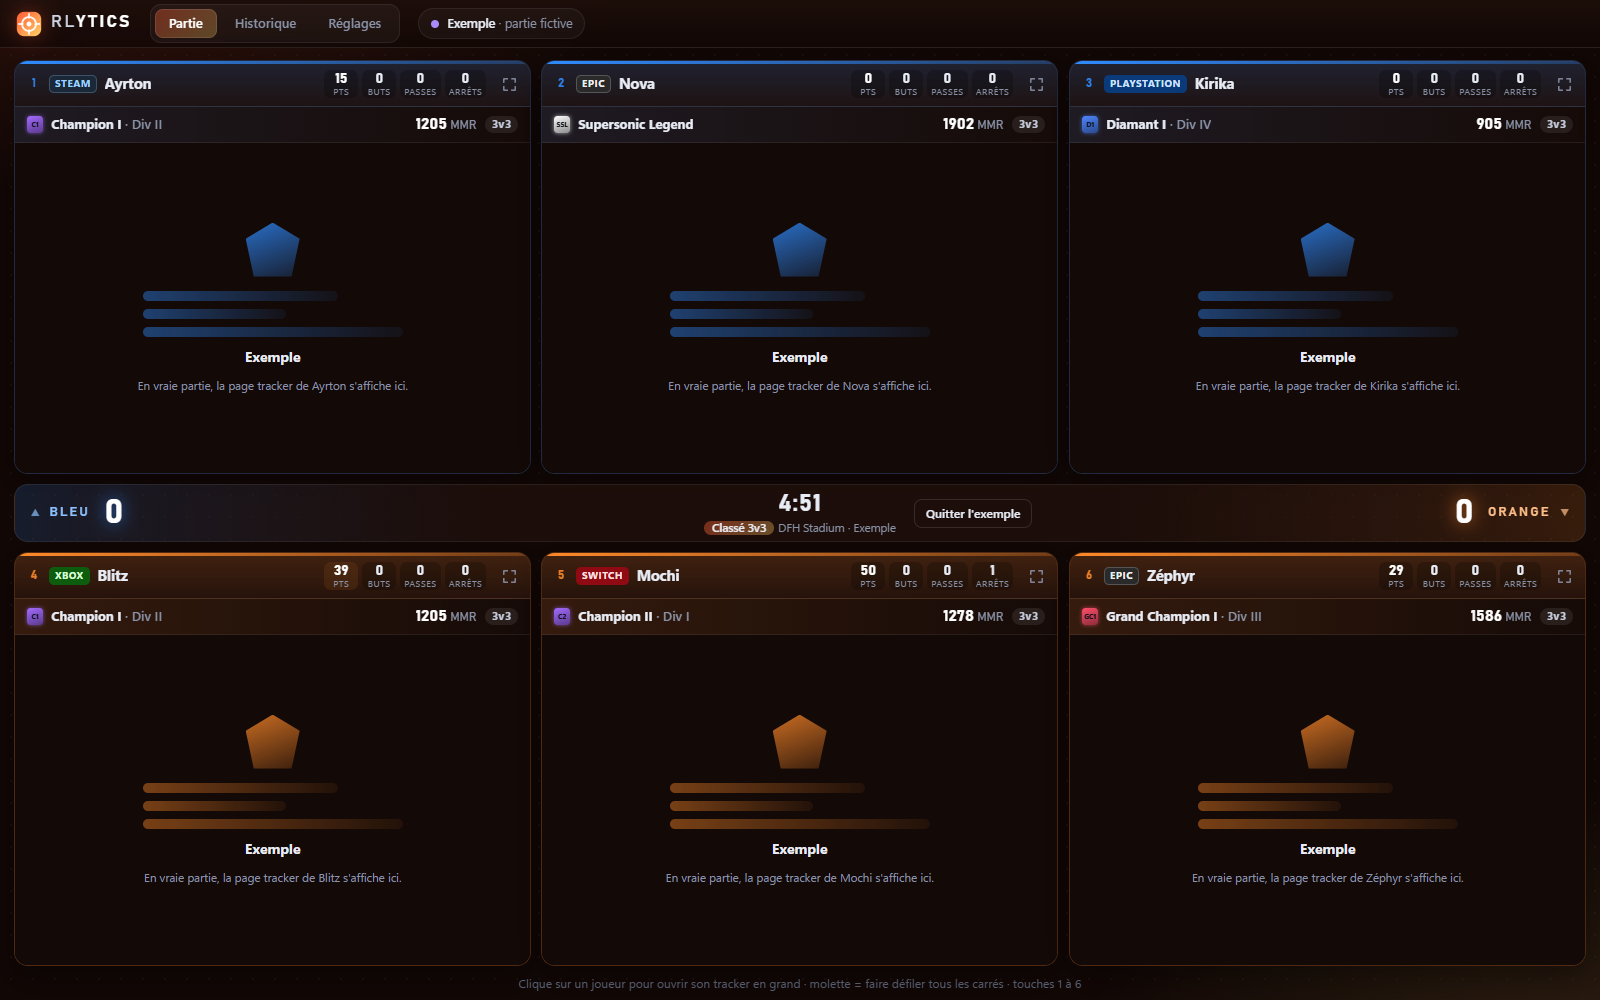
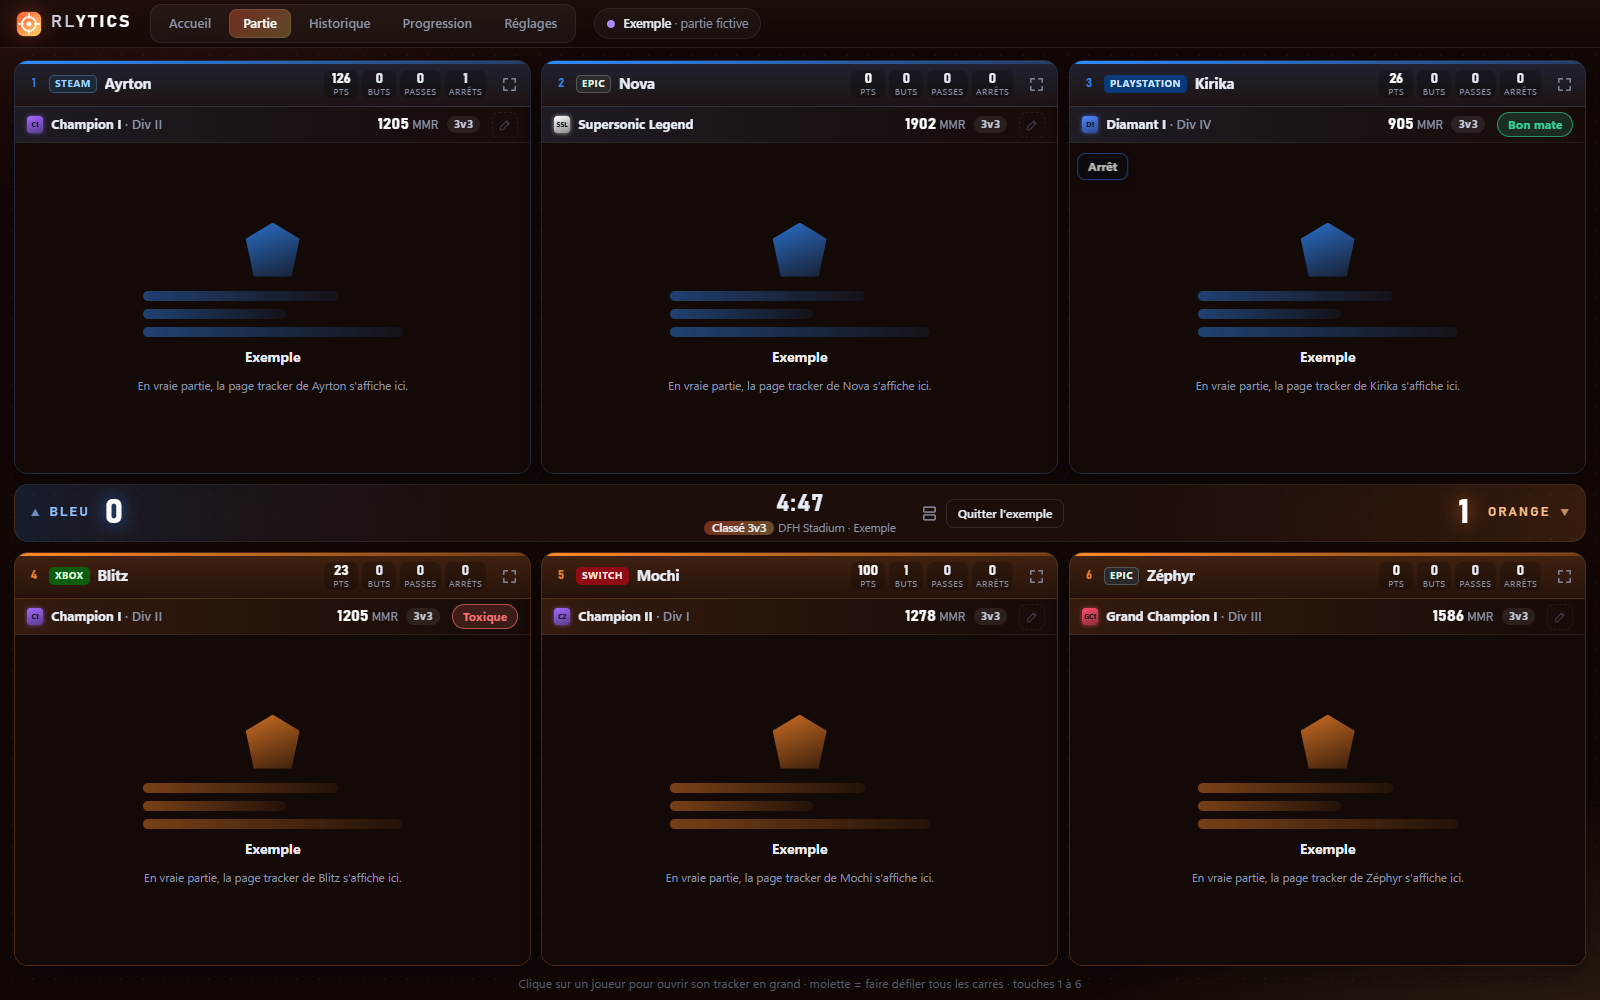
Site 1.9.0 : version anglaise, Progression, notes sur les joueurs, anti-tilt, nouvelles captures

diff --git a/docs/en/index.html b/docs/en/index.html
@@ -1,0 +1,218 @@
+<!DOCTYPE html>
+<html lang="en">
+<head>
+  <meta charset="utf-8">
+  <meta name="viewport" content="width=device-width, initial-scale=1">
+  <title>RLytics — every rank in your Rocket League lobby</title>
+  <meta name="description" content="RLytics shows the tracker of every player in your Rocket League match and puts their ranks, divisions and MMR right on your scoreboard. Free, for Windows, compatible with Easy Anti-Cheat.">
+  <meta property="og:title" content="RLytics — every rank in your Rocket League lobby">
+  <meta property="og:description" content="The tracker of every player in your match, and their ranks right on your scoreboard.">
+  <meta property="og:image" content="../img/en/partie.png">
+  <link rel="icon" href="../img/icon.png">
+  <link rel="alternate" hreflang="fr" href="https://ayusecour-stack.github.io/rlytics/">
+  <link rel="alternate" hreflang="en" href="https://ayusecour-stack.github.io/rlytics/en/">
+  <link rel="stylesheet" href="../style.css">
+</head>
+<body>
+  <div class="glow" aria-hidden="true"></div>
+
+  <header class="nav">
+    <a class="brand" href="#">
+      <img src="../img/icon.png" alt="" width="30" height="30">
+      <span>RL<b>YTICS</b></span>
+    </a>
+    <nav>
+      <a href="#features">Features</a>
+      <a href="#tab">Ranks in Tab</a>
+      <a href="#steps">How it works</a>
+      <a href="#faq">FAQ</a>
+      <a href="../" hreflang="fr" lang="fr">Français</a>
+    </nav>
+    <a class="btn small" href="https://github.com/ayusecour-stack/rlytics/releases/latest/download/RLytics-Setup.exe">Download</a>
+  </header>
+
+  <main>
+    <!-- ===== Hero ===== -->
+    <section class="hero">
+      <div class="hero-text">
+        <p class="kicker">For Rocket League on PC · Free</p>
+        <h1>Every rank in the lobby, <span class="grad">without leaving your match.</span></h1>
+        <p class="lead">RLytics shows the tracker of every player in your match and puts their <b>rank</b>, <b>division</b> and <b>MMR</b> right on your scoreboard when you hold Tab.</p>
+        <div class="cta">
+          <a class="btn big" id="dl" href="https://github.com/ayusecour-stack/rlytics/releases/latest/download/RLytics-Setup.exe">
+            <svg viewBox="0 0 24 24" aria-hidden="true"><path d="M12 3v12m0 0l-5-5m5 5l5-5M4 19h16"/></svg>
+            Download for Windows
+          </a>
+          <p class="meta" id="dl-meta">Windows 10 / 11 · automatic updates</p>
+          <p class="meta smartscreen">“Windows protected your PC” message? Click <b>More info</b>, then <b>Run anyway</b>. It only shows up on the first install.</p>
+        </div>
+        <ul class="ticks">
+          <li>Compatible with Easy Anti-Cheat: nothing is injected into the game</li>
+          <li>Steam and Epic, keyboard and controller</li>
+          <li>Your MMR curve, notes on players and anti-tilt</li>
+          <li>Color themes and anime themes</li>
+          <li>Players you met before, FPS counter and music playing in game</li>
+          <li>In English and French</li>
+        </ul>
+      </div>
+      <figure class="hero-shot">
+        <img src="../img/en/partie.png" alt="The RLytics window during a 3v3 match: one square per player with their rank, division and MMR">
+      </figure>
+    </section>
+
+    <!-- ===== Features ===== -->
+    <section id="features" class="section">
+      <h2>Everything you need to know who you’re playing against</h2>
+      <div class="grid">
+        <article class="feat">
+          <div class="ico">▦</div>
+          <h3>Every player’s tracker</h3>
+          <p>As soon as the match starts, RLytics opens the tracker page of every player: 2, 4 or 6 squares depending on the mode. Click a player to see them in full, or open them in your browser. You can also see one team at a time in full screen (the 3 Blues, then the 3 Oranges).</p>
+        </article>
+        <article class="feat">
+          <div class="ico">◆</div>
+          <h3>Ranks in the Tab overlay</h3>
+          <p>Hold Tab (or your controller button): the rank logo, division and MMR show up next to each player, for the mode you’re playing. Press F9 to see their 1v1, 2v2 or 3v3 ranks.</p>
+        </article>
+        <article class="feat">
+          <div class="ico">✓</div>
+          <h3>Compatible with Easy Anti-Cheat</h3>
+          <p>RLytics reads Rocket League’s <b>official Stats API</b>: the game itself gives the player list. Nothing is injected, the game’s memory is never read.</p>
+        </article>
+        <article class="feat">
+          <div class="ico">↻</div>
+          <h3>Match history</h3>
+          <p>Every match is saved: score, result and players, with a link to their tracker. Handy to find that amazing teammate again… or that smurf.</p>
+        </article>
+        <article class="feat">
+          <div class="ico">↗</div>
+          <h3>Your progress</h3>
+          <p>Your MMR curve match after match, in every ranked mode: your peak, your current streak, your day so far. Pick a goal (Grand Champion, for example) and track your progress division by division.</p>
+        </article>
+        <article class="feat">
+          <div class="ico">✎</div>
+          <h3>Notes on players</h3>
+          <p>Toxic, good teammate, smurf, troll… Put a note on a player: next time you meet them, it shows on their card and in your in-game Tab overlay.</p>
+        </article>
+        <article class="feat">
+          <div class="ico">♡</div>
+          <h3>Anti-tilt</h3>
+          <p>After several losses in a row, a short message suggests a break, on top of the game. A win resets the count. You can turn it off.</p>
+        </article>
+        <article class="feat">
+          <div class="ico">✦</div>
+          <h3>Themes</h3>
+          <p>7 color themes, and anime themes with their characters: My Dress Up Darling, Akame ga Kill, The Quintessential Quintuplets, The Future Diary, Bunny Girl Senpai, Haimiya-senpai, Kaoru Hana wa Rin to Saku, Re:Zero, Mushoku Tensei, Jujutsu Kaisen (Gojo and Sukuna), Chainsaw Man (Reze and Asa Mitaka), Uma Musume (Agnes Tachyon), Roshidere (Alya and Yuki), Akame ga Kill (Esdeath), Firefly Wedding (Satoko), Kill la Kill (Ryuko), Cyberpunk Edgerunners (Lucy and David), Oshi no Ko (Ruby, Kana, Ai and Akane), The Angel Next Door (Mahiru), Darling in the Franxx (Zero Two). The home page (clock, character, full screen) is perfect on a second screen.</p>
+        </article>
+        <article class="feat">
+          <div class="ico">⇣</div>
+          <h3>Automatic updates</h3>
+          <p>New versions download by themselves and install when you close RLytics. Nothing to do.</p>
+        </article>
+      </div>
+    </section>
+
+    <!-- ===== Ranks in Tab (illustration) ===== -->
+    <section id="tab" class="section split">
+      <div>
+        <h2>Your scoreboard, but better</h2>
+        <p>One badge per player that fits in its row: the rank logo and division on top, the MMR right below. SSL players have no division, bots get nothing.</p>
+        <p>Nothing to set up: the positions are already measured on the real scoreboard and adapt to 16:9, 21:9 and 16:10 screens. If they’re off on yours, one photo of your scoreboard is enough to fix them.</p>
+        <p>Want to see your opponents’ 1v1 or 3v3 rank during a 2v2 match? Press <b>F9</b>: the Tab ranks switch to the next mode (key can be changed in the settings).</p>
+        <p class="small">Illustration: made-up names and ranks.</p>
+      </div>
+      <div class="board" aria-label="Sample scoreboard with RLytics ranks">
+        <div class="team t0">
+          <div class="thead"><b>BLUE</b><span>SCORE</span><span>GOALS</span><span>SAVES</span></div>
+          <div class="row"><div class="badge t0"><i class="em" style="--c:#ff4f6b">GC1</i><span>DIV III</span><small><b>1586</b> MMR</small></div><div class="av"></div><b class="nm">Ayrton</b><span>412</span><span>2</span><span>1</span></div>
+          <div class="row"><div class="badge t0"><i class="em" style="--c:#ffffff">SSL</i><small><b>1902</b> MMR</small></div><div class="av"></div><b class="nm">Nova</b><span>356</span><span>1</span><span>3</span></div>
+          <div class="row"><div class="badge t0"><i class="em" style="--c:#a46bff">C2</i><span>DIV I</span><small><b>1278</b> MMR</small></div><div class="av"></div><b class="nm">Kirika</b><span>201</span><span>0</span><span>2</span></div>
+        </div>
+        <div class="team t1">
+          <div class="thead"><b>ORANGE</b><span>SCORE</span><span>GOALS</span><span>SAVES</span></div>
+          <div class="row"><div class="badge t1"><i class="em" style="--c:#ff4f6b">GC2</i><span>DIV IV</span><small><b>1712</b> MMR</small></div><div class="av"></div><b class="nm">Blitz</b><span>388</span><span>1</span><span>2</span></div>
+          <div class="row"><div class="badge t1"><i class="em" style="--c:#a46bff">C1</i><span>DIV II</span><small><b>1205</b> MMR</small></div><div class="av"></div><b class="nm">Mochi</b><span>244</span><span>1</span><span>0</span></div>
+          <div class="row"><div class="badge t1"><i class="em" style="--c:#4f86ff">D3</i><span>DIV II</span><small><b>1120</b> MMR</small></div><div class="av"></div><b class="nm">Zéphyr</b><span>130</span><span>0</span><span>1</span></div>
+        </div>
+      </div>
+    </section>
+
+    <!-- ===== Screenshots ===== -->
+    <section class="section">
+      <h2>What it looks like</h2>
+      <div class="shots">
+        <figure><img src="../img/en/progression.png" alt="The Progress page: MMR curve, peak, streak and rank goal" loading="lazy"><figcaption>Your progress (Neon theme)</figcaption></figure>
+        <figure><img src="../img/en/braise.png" alt="RLytics with the Ember theme during a match" loading="lazy"><figcaption>Ember theme</figcaption></figure>
+        <figure><img src="../img/en/reglages.png" alt="RLytics settings: ranks in the Tab overlay" loading="lazy"><figcaption>Tab rank settings</figcaption></figure>
+      </div>
+    </section>
+
+    <!-- ===== Steps ===== -->
+    <section id="steps" class="section">
+      <h2>How it works</h2>
+      <ol class="steps">
+        <li><b>Install RLytics.</b> Windows may show “Windows protected your PC”: the app doesn’t have a paid signature. Click “More info”, then “Run anyway”.</li>
+        <li><b>Start Rocket League in borderless windowed mode.</b> If the game’s Stats API isn’t enabled yet, RLytics offers to enable it in one click (restart the game once).</li>
+        <li><b>Play.</b> As soon as the match starts, every player’s tracker shows up. The first time, tracker.gg asks for your cookie choice: do it once, it’s remembered.</li>
+        <li><b>Hold Tab in a match.</b> Everyone’s ranks show up on your scoreboard, already well placed in 1v1, 2v2 and 3v3. If they’re off on yours (different interface size…), one photo of the scoreboard in the settings is enough to fix them.</li>
+      </ol>
+    </section>
+
+    <!-- ===== FAQ ===== -->
+    <section id="faq" class="section">
+      <h2>Frequently asked questions</h2>
+      <div class="faq">
+        <details>
+          <summary>Windows shows “Windows protected your PC”, is that normal?</summary>
+          <p>Yes. Windows shows this message for programs without a paid signature (a certificate costs several hundred euros per year). Click “More info”, then “Run anyway”. It only shows up on install: automatic updates don’t trigger it.</p>
+        </details>
+        <details>
+          <summary>Can I get banned?</summary>
+          <p>RLytics doesn’t touch the game: it injects nothing, doesn’t read its memory and doesn’t even open its process. It reads Rocket League’s official Stats API (made by Psyonix for overlays) and shows a window on top of the game, like Discord or OBS. There’s no official guarantee from Psyonix, but it works the same way as allowed overlays.</p>
+        </details>
+        <details>
+          <summary>Where do the ranks come from?</summary>
+          <p>From the public pages of rocketleague.tracker.network, which RLytics shows like a browser. The Tab ranks are read from these already open pages, with no extra requests. RLytics isn’t affiliated with Tracker Network: if their site changes, an RLytics update may be needed.</p>
+        </details>
+        <details>
+          <summary>Does it work on Steam and Epic? With a controller?</summary>
+          <p>Yes to both. For a controller, pick the button that opens your scoreboard in the settings. PlayStation, Xbox and Switch players in your match show up too.</p>
+        </details>
+        <details>
+          <summary>Does it slow down my game?</summary>
+          <p>Pages load once at the start of the match, then they’re paused (still image) while Rocket League is in front, and theme animations stop during matches. If your PC is tight, turn off “Load trackers automatically” in the settings.</p>
+        </details>
+        <details>
+          <summary>Do I need an account? Where does my data go?</summary>
+          <p>No account. Everything stays on your PC: settings, history, notes on players, your MMR curve, rank positions. RLytics only connects to tracker.gg (player pages), AniList (anime theme images) and GitHub (updates).</p>
+        </details>
+        <details>
+          <summary>Is RLytics available in French?</summary>
+          <p>Yes: Settings → Language. In “Auto”, RLytics follows your Windows language.</p>
+        </details>
+        <details>
+          <summary>How do I get new versions?</summary>
+          <p>Automatically: RLytics checks at startup, then every 3 hours, downloads the new version in the background and installs it when you close it (or right away with the “Restart” button).</p>
+        </details>
+        <details>
+          <summary>I found a bug, what do I do?</summary>
+          <p>In RLytics: Settings → About → “Open the log”. This file explains what happened (it stays on your PC, nothing is sent). Describe the problem on <a href="https://github.com/ayusecour-stack/rlytics/issues">the issues page</a> and attach the log if you want.</p>
+        </details>
+      </div>
+    </section>
+
+    <section class="section final">
+      <h2>Ready for your next match?</h2>
+      <a class="btn big" href="https://github.com/ayusecour-stack/rlytics/releases/latest/download/RLytics-Setup.exe">Download RLytics</a>
+      <p class="meta" id="dl-meta-2"></p>
+    </section>
+  </main>
+
+  <footer>
+    <p>RLytics isn’t affiliated with Psyonix, Epic Games or Tracker Network. Rocket League is a trademark of Psyonix. Anime theme images come from AniList and belong to their owners; they aren’t included in RLytics.</p>
+    <p><a href="https://github.com/ayusecour-stack/rlytics/releases">All versions</a></p>
+  </footer>
+
+  <script src="../app.js"></script>
+</body>
+</html>

diff --git a/docs/index.html b/docs/index.html
@@ -9,6 +9,8 @@
   <meta property="og:description" content="Le tracker de chaque joueur de ta partie, et leurs rangs directement dans ton tableau des scores.">
   <meta property="og:image" content="img/partie.png">
   <link rel="icon" href="img/icon.png">
+  <link rel="alternate" hreflang="fr" href="https://ayusecour-stack.github.io/rlytics/">
+  <link rel="alternate" hreflang="en" href="https://ayusecour-stack.github.io/rlytics/en/">
   <link rel="stylesheet" href="style.css">
 </head>
 <body>
@@ -24,6 +26,7 @@
       <a href="#tab">Rangs dans le Tab</a>
       <a href="#etapes">Comment ça marche</a>
       <a href="#faq">FAQ</a>
+      <a href="en/" hreflang="en" lang="en">English</a>
     </nav>
     <a class="btn small" href="https://github.com/ayusecour-stack/rlytics/releases/latest/download/RLytics-Setup.exe">Télécharger</a>
   </header>
@@ -46,8 +49,10 @@
         <ul class="ticks">
           <li>Compatible Easy Anti-Cheat : rien n'est injecté dans le jeu</li>
           <li>Steam et Epic, clavier et manette</li>
+          <li>Courbe de ton MMR, notes sur les joueurs et anti-tilt</li>
           <li>Thèmes de couleurs et thèmes anime</li>
           <li>Joueurs déjà croisés, compteur FPS et musique en cours en jeu</li>
+          <li>En français et en anglais</li>
         </ul>
       </div>
       <figure class="hero-shot">
@@ -78,6 +83,21 @@
           <div class="ico">↻</div>
           <h3>Historique des parties</h3>
           <p>Chaque partie est enregistrée : score, résultat et joueurs, avec un lien vers leur tracker. Pratique pour retrouver ce coéquipier incroyable… ou ce smurf.</p>
+        </article>
+        <article class="feat">
+          <div class="ico">↗</div>
+          <h3>Ta progression</h3>
+          <p>La courbe de ton MMR partie après partie, dans chaque mode classé : ton record, ta série en cours, ton bilan du jour. Choisis un objectif (par exemple Grand Champion) et suis ta progression division par division.</p>
+        </article>
+        <article class="feat">
+          <div class="ico">✎</div>
+          <h3>Notes sur les joueurs</h3>
+          <p>Toxique, bon mate, smurf, troll… Mets une note sur un joueur : la prochaine fois que tu tombes sur lui, elle s’affiche sur sa carte et dans ton Tab en jeu.</p>
+        </article>
+        <article class="feat">
+          <div class="ico">♡</div>
+          <h3>Anti-tilt</h3>
+          <p>Après plusieurs défaites d’affilée, un petit message te propose une pause, par-dessus le jeu. Une victoire remet le compteur à zéro. Tu peux le couper.</p>
         </article>
         <article class="feat">
           <div class="ico">✦</div>
@@ -121,9 +141,9 @@
     <section class="section">
       <h2>À quoi ça ressemble</h2>
       <div class="shots">
-        <figure><img src="img/neon.png" alt="RLytics avec le thème Néon" loading="lazy"><figcaption>Thème Néon</figcaption></figure>
-        <figure><img src="img/braise.png" alt="RLytics avec le thème Braise" loading="lazy"><figcaption>Thème Braise</figcaption></figure>
-        <figure><img src="img/reglages.png" alt="Les réglages de RLytics : overlay en jeu, mises à jour" loading="lazy"><figcaption>Réglages de l'overlay en jeu</figcaption></figure>
+        <figure><img src="img/progression.png" alt="La page Progression : courbe du MMR, record, série et objectif de rang" loading="lazy"><figcaption>Ta progression (thème Néon)</figcaption></figure>
+        <figure><img src="img/braise.png" alt="RLytics avec le thème Braise pendant une partie" loading="lazy"><figcaption>Thème Braise</figcaption></figure>
+        <figure><img src="img/reglages.png" alt="Les réglages de RLytics : rangs dans le Tab" loading="lazy"><figcaption>Réglages des rangs du Tab</figcaption></figure>
       </div>
     </section>
 
@@ -164,7 +184,11 @@
         </details>
         <details>
           <summary>Il faut un compte ? Mes données partent où ?</summary>
-          <p>Pas de compte. Tout reste sur ton PC : réglages, historique, emplacement des rangs. RLytics se connecte seulement à tracker.gg (les pages des joueurs), à AniList (images des thèmes anime) et à GitHub (mises à jour).</p>
+          <p>Pas de compte. Tout reste sur ton PC : réglages, historique, notes sur les joueurs, courbe de ton MMR, emplacement des rangs. RLytics se connecte seulement à tracker.gg (les pages des joueurs), à AniList (images des thèmes anime) et à GitHub (mises à jour).</p>
+        </details>
+        <details>
+          <summary>RLytics existe en anglais ?</summary>
+          <p>Oui : Réglages → Langue · Language. En « Auto », RLytics suit la langue de Windows.</p>
         </details>
         <details>
           <summary>Comment j'ai les nouvelles versions ?</summary>

diff --git a/docs/app.js b/docs/app.js
@@ -1,13 +1,14 @@
 // Affiche la dernière version publiée (numéro, taille, date) à côté des boutons de téléchargement
 (async () => {
   try {
+    const en = document.documentElement.lang === 'en';
     const res = await fetch('https://api.github.com/repos/ayusecour-stack/rlytics/releases/latest', { headers: { Accept: 'application/vnd.github+json' } });
     if (!res.ok) return;
     const r = await res.json();
     const exe = (r.assets || []).find((a) => /\.exe$/i.test(a.name));
     const parts = [`Version ${String(r.tag_name || '').replace(/^v/, '')}`];
-    if (exe) parts.push(`${Math.round(exe.size / 1048576)} Mo`);
-    if (r.published_at) parts.push(new Date(r.published_at).toLocaleDateString('fr-FR', { day: 'numeric', month: 'long', year: 'numeric' }));
+    if (exe) parts.push(`${Math.round(exe.size / 1048576)} ${en ? 'MB' : 'Mo'}`);
+    if (r.published_at) parts.push(new Date(r.published_at).toLocaleDateString(en ? 'en-US' : 'fr-FR', { day: 'numeric', month: 'long', year: 'numeric' }));
     parts.push('Windows 10 / 11');
     const text = parts.join(' · ');
     for (const id of ['dl-meta', 'dl-meta-2']) { const el = document.getElementById(id); if (el) el.textContent = text; }
